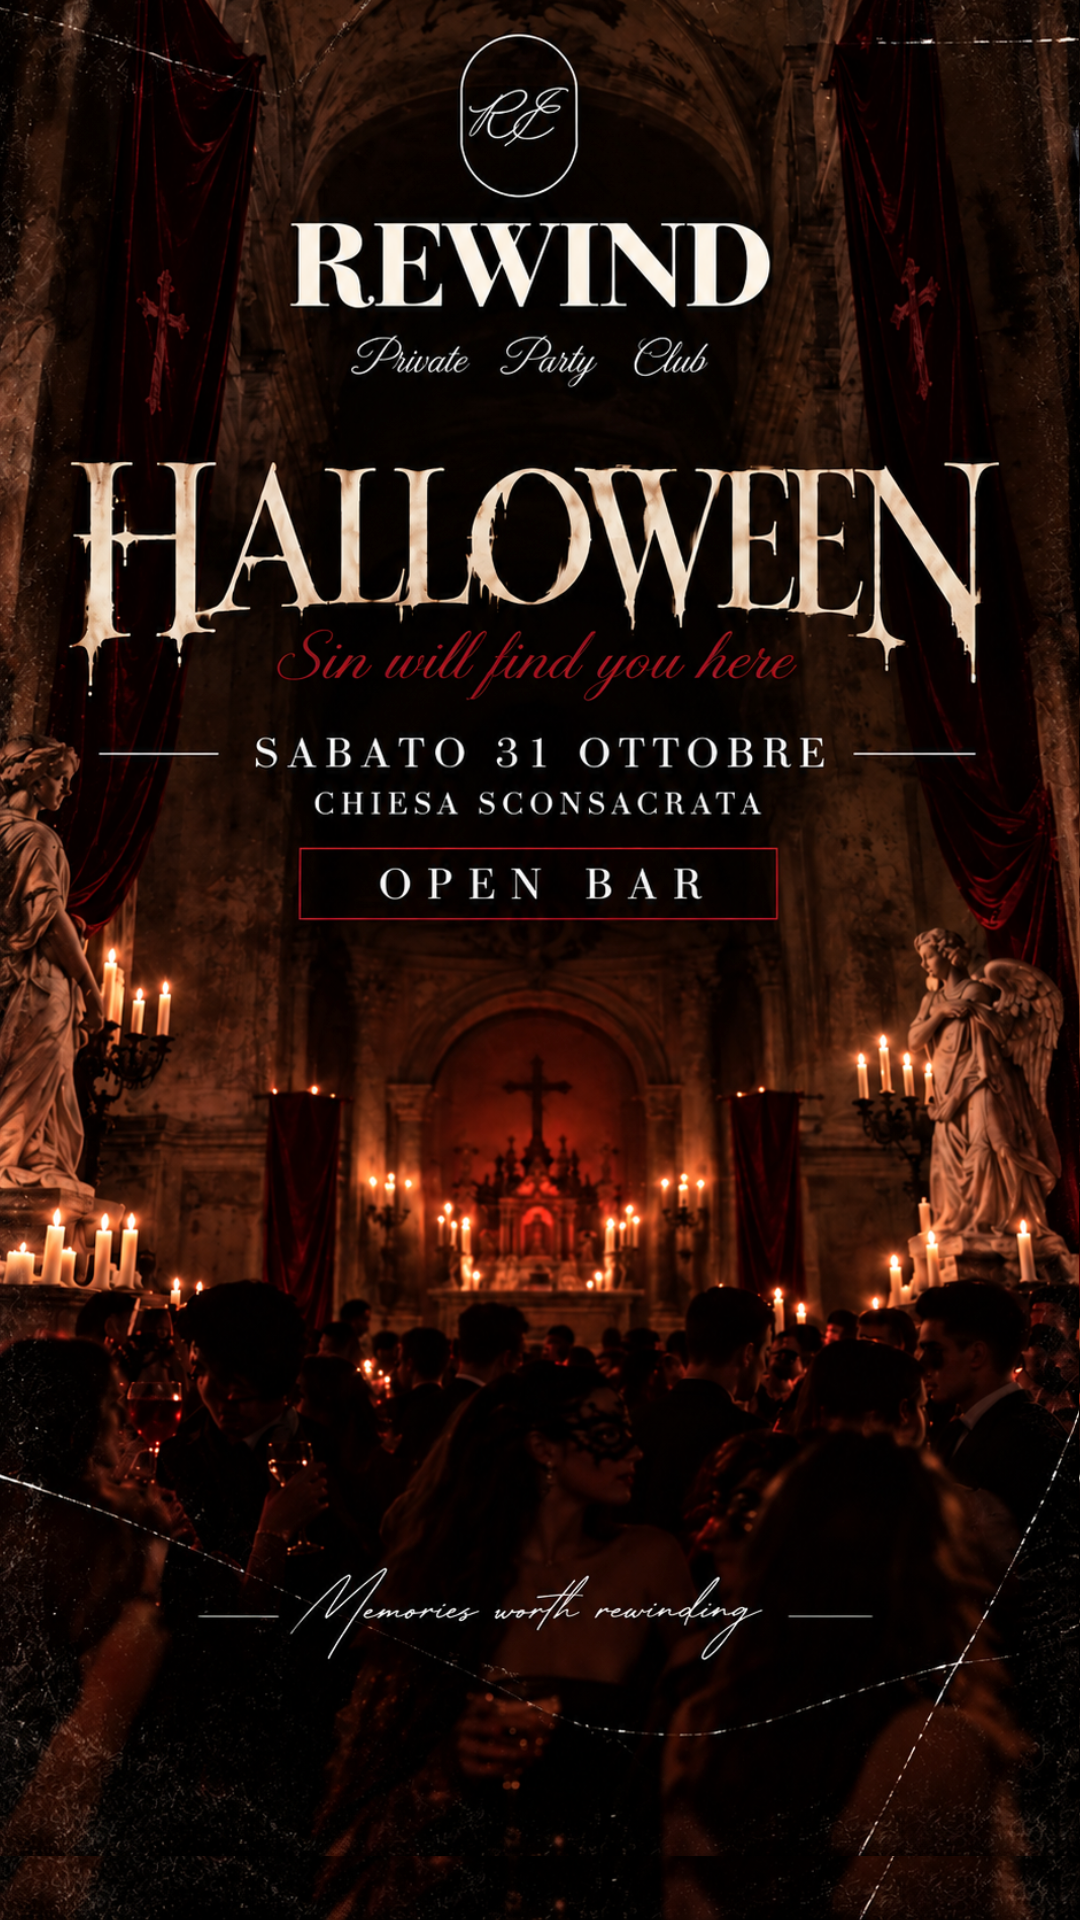
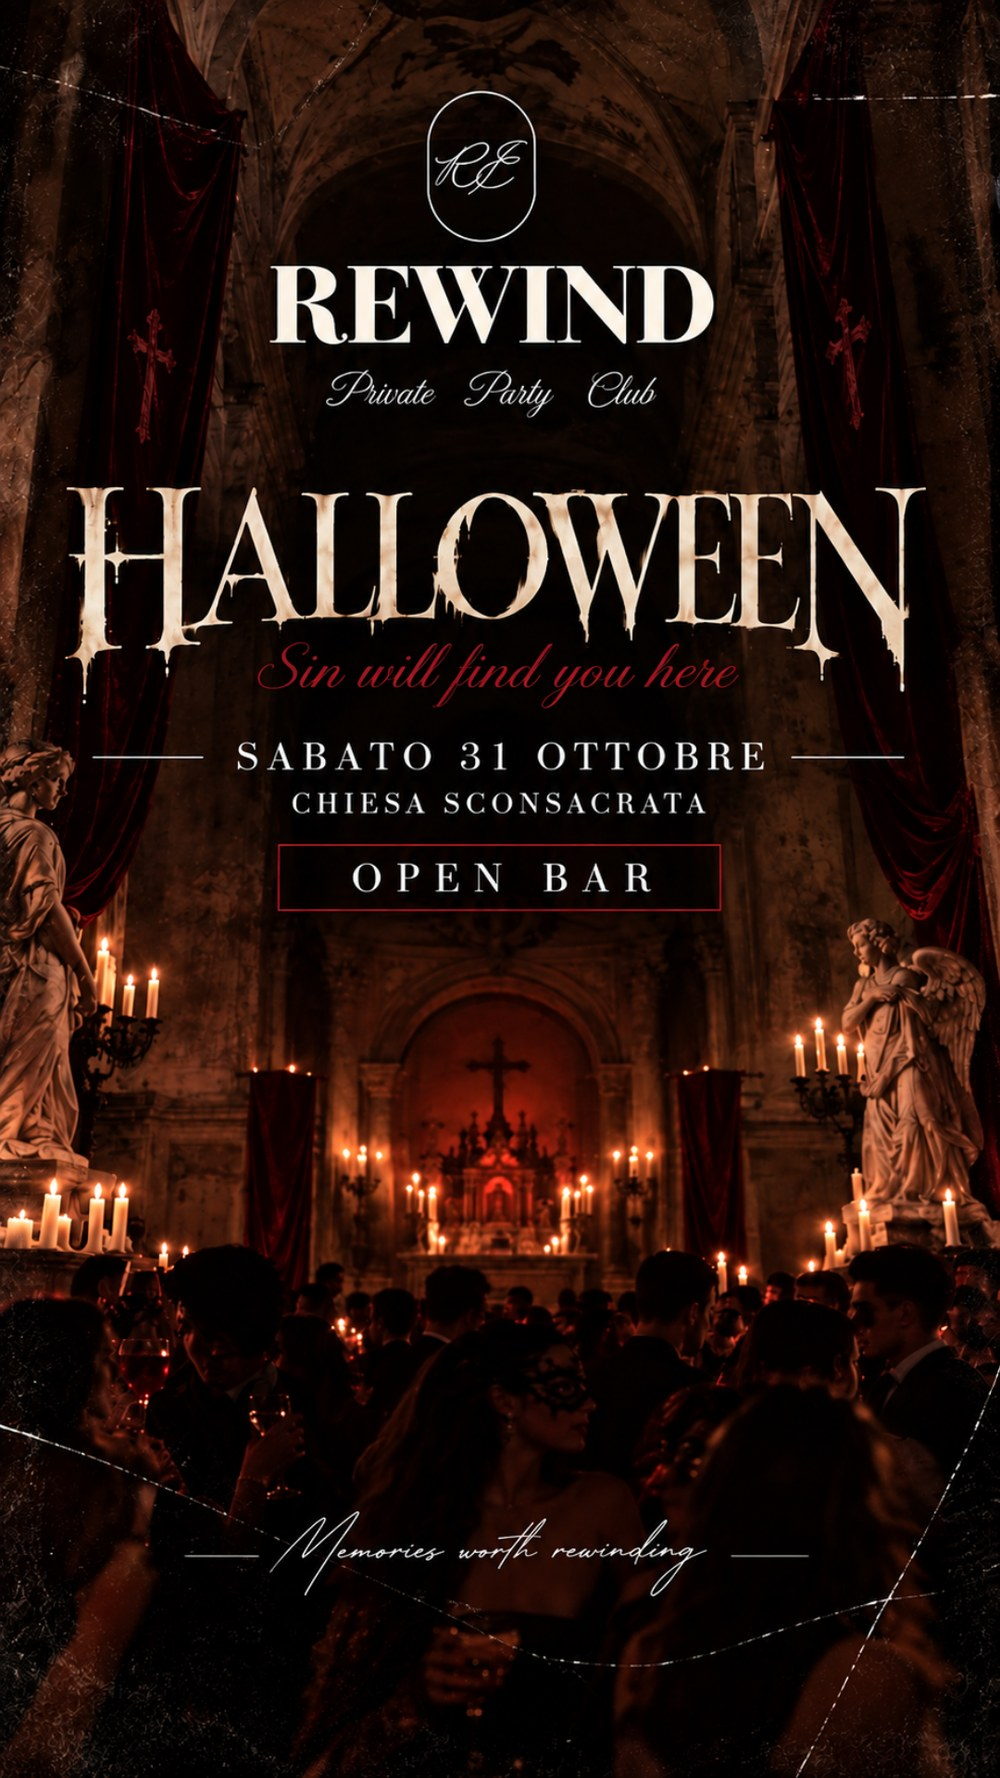
Add files via upload

diff --git a/menu-temakinho.html b/menu-temakinho.html
@@ -58,42 +58,23 @@
     <a href="temakinho.html" class="tm-back">← &nbsp;Torna a Temakinho</a>
 
     <div class="tm-menu-head">
-      <p class="tm-eyebrow">Rewind Temakinho &nbsp;·&nbsp; 16 Ottobre 2026</p>
+      <p class="tm-eyebrow">Rewind Temakinho &nbsp;·&nbsp; Venerdì 16 Ottobre 2026</p>
       <h1 class="tm-title">IL MENÙ</h1>
       <p class="tm-claim">Cena Spettacolo</p>
-      <p class="tm-sub">Due proposte per la serata. Scegli la tua al momento della prenotazione.</p>
+      <p class="tm-sub">Le proposte della serata. Scegli la tua al momento della prenotazione.</p>
     </div>
 
     <!-- ═══════════════════════════════════════════════════
-         I DUE MENÙ
-         Per inserirli: carica i file nella cartella principale
-         e scrivi il nome del file qui sotto, in MENU_FILES.
-         Accetta immagini (.jpg .png) oppure PDF.
+         IL MENÙ — locandina unica: menu-temakinho.jpg
+         Per aggiornarlo sostituisci quel file con lo stesso nome.
     ═══════════════════════════════════════════════════ -->
-    <div class="tm-menus">
-
-      <section class="tm-menu-card" id="menuCard1">
-        <div class="tm-menu-num">01</div>
-        <h2 class="tm-menu-ttl" id="menuTtl1">Menù 01</h2>
-        <div class="tm-menu-body" id="menuBody1">
-          <div class="tm-menu-ph">
-            <span>In arrivo</span>
-            <span>Il menù sarà pubblicato a breve</span>
-          </div>
-        </div>
-      </section>
-
-      <section class="tm-menu-card" id="menuCard2">
-        <div class="tm-menu-num">02</div>
-        <h2 class="tm-menu-ttl" id="menuTtl2">Menù 02</h2>
-        <div class="tm-menu-body" id="menuBody2">
-          <div class="tm-menu-ph">
-            <span>In arrivo</span>
-            <span>Il menù sarà pubblicato a breve</span>
-          </div>
-        </div>
-      </section>
-
+    <div class="tm-menu-single">
+      <figure class="tm-menu-poster">
+        <img src="menu-temakinho.jpg"
+             alt="Menù della Cena Spettacolo — Rewind Temakinho, venerdì 16 ottobre 2026"
+             width="1080" height="1350">
+      </figure>
+      <a class="tm-menu-open" href="menu-temakinho.jpg" target="_blank" rel="noopener">Apri a schermo intero →</a>
     </div>
 
     <div class="tm-menu-cta">
@@ -130,41 +111,11 @@
 
 <script>
 /* ═══════════════════════════════════════════════════
-   I DUE MENÙ — unica parte da modificare
-   Scrivi il nome del file (immagine o PDF) tra le virgolette.
-   Lasciando '' resta il segnaposto "In arrivo".
-   Esempio:  file:'menu-1.jpg'   oppure   file:'menu-1.pdf'
+   IL MENÙ
+   È un'unica locandina: il file è  menu-temakinho.jpg
+   Per aggiornarlo basta sostituire quel file mantenendo
+   lo stesso nome. Nessuna modifica al codice.
 ═══════════════════════════════════════════════════ */
-const MENU_FILES = [
-  { titolo:'Menù 01', file:'' },   // ← primo menù
-  { titolo:'Menù 02', file:'' }    // ← secondo menù
-];
-
-/* ─── da qui in giù non serve modificare nulla ─── */
-MENU_FILES.forEach(function(m, i){
-  const n    = i + 1;
-  const ttl  = document.getElementById('menuTtl'  + n);
-  const body = document.getElementById('menuBody' + n);
-  if(m.titolo) ttl.textContent = m.titolo;
-  if(!m.file) return;
-
-  const est = m.file.split('.').pop().toLowerCase();
-  if(est === 'pdf'){
-    body.innerHTML =
-      '<object class="tm-menu-pdf" data="' + m.file + '" type="application/pdf">' +
-        '<div class="tm-menu-ph"><span>Menù in PDF</span>' +
-        '<span>Il tuo browser non lo mostra qui</span></div>' +
-      '</object>' +
-      '<a class="tm-menu-open" href="' + m.file + '" target="_blank" rel="noopener">Apri il menù →</a>';
-  }else{
-    body.innerHTML =
-      '<img class="tm-menu-img" src="' + m.file + '" alt="' + (m.titolo || 'Menù') +
-      ' — Rewind Temakinho" loading="lazy" ' +
-      'onerror="this.parentElement.innerHTML=\'<div class=&quot;tm-menu-ph&quot;>' +
-      '<span>In arrivo</span><span>Il menù sarà pubblicato a breve</span></div>\'">' +
-      '<a class="tm-menu-open" href="' + m.file + '" target="_blank" rel="noopener">Ingrandisci →</a>';
-  }
-});
 
 /* ─── NAV ─── */
 window.addEventListener('scroll',()=>{

diff --git a/temakinho.html b/temakinho.html
@@ -7,7 +7,7 @@
 <meta name="theme-color" content="#071410">
 <meta name="viewport" content="width=device-width, initial-scale=1.0, maximum-scale=1.0">
 <title>REWIND TEMAKINHO — 16 Ottobre 2026 | Cena Spettacolo e DJ Set a Bologna</title>
-<meta name="description" content="REWIND TEMAKINHO — venerdì 16 ottobre 2026, Via Farini 13/A Bologna. Cena spettacolo 40 €, DJ Set 15 € con drink incluso. Dalle 20:00, till late.">
+<meta name="description" content="REWIND TEMAKINHO — venerdì 16 ottobre 2026, Via Farini 13/A Bologna. Cena spettacolo 40 €, DJ Set 15 € con drink incluso. Dalle 20:30, till late.">
 <link rel="canonical" href="https://www.rewindeventss.com/temakinho.html">
 <meta name="robots" content="index, follow">
 <meta property="og:type" content="article">
@@ -29,7 +29,7 @@
 {
   "@context":"https://schema.org","@type":"Event",
   "name":"REWIND TEMAKINHO",
-  "startDate":"2026-10-16T20:00",
+  "startDate":"2026-10-16T20:30",
   "eventStatus":"https://schema.org/EventScheduled",
   "eventAttendanceMode":"https://schema.org/OfflineEventAttendanceMode",
   "image":"https://www.rewindeventss.com/temakinho-2026.jpg",
@@ -127,7 +127,7 @@
           </div>
           <div class="tm-fact big">
             <p class="tm-fact-l">Orario</p>
-            <p class="tm-fact-v" data-cfg="temakinho.orario">20:00 — Till Late</p>
+            <p class="tm-fact-v" data-cfg="temakinho.orario">20:30 — Till Late</p>
           </div>
           <div class="tm-fact wide">
             <p class="tm-fact-l">Location</p>
@@ -169,7 +169,7 @@
 
         <!-- ── CENA SPETTACOLO → WhatsApp ── -->
         <div class="tm-opt">
-          <p class="tm-opt-kicker">Dalle 20:00</p>
+          <p class="tm-opt-kicker">Dalle 20:30</p>
           <div class="tm-opt-name">Cena<br>Spettacolo</div>
           <div class="tm-opt-price"><span data-cfg="temakinho.prezzo_cena">40</span><span class="cur">&#8364;</span></div>
           <p class="tm-opt-note">Cena con spettacolo, poi si continua con il DJ Set.</p>
@@ -178,7 +178,7 @@
 
         <!-- ── DJ SET → form ── -->
         <div class="tm-opt">
-          <p class="tm-opt-kicker">Dalle 22:00</p>
+          <p class="tm-opt-kicker">Dalle 22:30</p>
           <div class="tm-opt-name">DJ Set</div>
           <div class="tm-opt-price"><span data-cfg="temakinho.prezzo_dj">15</span><span class="cur">&#8364;</span></div>
           <p class="tm-opt-note" data-cfg="temakinho.nota_dj">Drink incluso.</p>
@@ -308,7 +308,7 @@ const TM_ID = 'temakinho-2026';
 const tmEv = (typeof rwEventById === 'function' ? rwEventById(TM_ID) : null) || {
   id: TM_ID, title:'REWIND TEMAKINHO', displayDate:'16 Ottobre 2026',
   location:'Temakinho', locationDetail:'Via Farini 13/A — 40124 Bologna',
-  time:'20:00 — Till Late'
+  time:'20:30 — Till Late'
 };
 
 /* ─── Pannello di configurazione: valori modificabili dal foglio "config" ───
@@ -409,7 +409,7 @@ function cMob(){mob.classList.remove('open');hamb.classList.remove('open');}
           eventName:     'TEMAKINHO',
           eventDate:     tmEv.displayDate,
           eventLocation: [tmEv.location, tmEv.locationDetail].filter(Boolean).join(' — '),
-          eventTime:     'Dalle 22:00 — Till Late',
+          eventTime:     'Dalle 22:30 — Till Late',
           eventPrice:    '15 €',
           eventFormat:   'DJ Set',
           tipologia:     'DJ SET',

diff --git a/halloween.html b/halloween.html
@@ -7,18 +7,18 @@
 <meta name="theme-color" content="#070407">
 <meta name="viewport" content="width=device-width, initial-scale=1.0, maximum-scale=1.0">
 <title>REWIND HALLOWEEN — 31 Ottobre 2026 | Chiesa sconsacrata, Zola Predosa</title>
-<meta name="description" content="REWIND HALLOWEEN — venerdì 31 ottobre 2026 in una chiesa sconsacrata a Zola Predosa. Open Bar, 30 €, dalle 22:00 alle 04:00. Prenota il tuo ingresso.">
+<meta name="description" content="REWIND HALLOWEEN — venerdì 31 ottobre 2026 in una chiesa sconsacrata a Zola Predosa. Open Bar, 25 €, dalle 22:00 alle 04:00. Prenota il tuo ingresso.">
 <link rel="canonical" href="https://www.rewindeventss.com/halloween.html">
 <meta name="robots" content="index, follow">
 <meta property="og:type" content="article">
 <meta property="og:url" content="https://www.rewindeventss.com/halloween.html">
 <meta property="og:title" content="REWIND HALLOWEEN — 31 Ottobre 2026">
-<meta property="og:description" content="Chiesa sconsacrata, Zola Predosa · 22:00–04:00 · Open Bar · 30 €">
+<meta property="og:description" content="Chiesa sconsacrata, Zola Predosa · 22:00–04:00 · Open Bar · 25 €">
 <meta property="og:image" content="https://www.rewindeventss.com/halloween-2026.jpg">
 <meta property="og:site_name" content="Rewind Private Club">
 <meta name="twitter:card" content="summary_large_image">
 <meta name="twitter:title" content="REWIND HALLOWEEN — 31 Ottobre 2026">
-<meta name="twitter:description" content="Chiesa sconsacrata, Zola Predosa · 22:00–04:00 · Open Bar · 30 €">
+<meta name="twitter:description" content="Chiesa sconsacrata, Zola Predosa · 22:00–04:00 · Open Bar · 25 €">
 <meta name="twitter:image" content="https://www.rewindeventss.com/halloween-2026.jpg">
 <link rel="preconnect" href="https://fonts.googleapis.com">
 <link rel="preconnect" href="https://fonts.gstatic.com" crossorigin>
@@ -123,7 +123,7 @@
                  con la chiave  halloween.badge_prezzo
                  (se la lasci vuota, l'etichetta sparisce da sola) -->
             <p class="hw-badge" data-cfg="halloween.badge_prezzo" data-cfg-optional>Early Bird</p>
-            <p class="hw-fact-v"><span data-cfg="halloween.prezzo">25</span><span class="cur">&#8364;</span></p>
+            <p class="hw-fact-v"><span data-cfg="halloween.prezzo">30</span><span class="cur">&#8364;</span></p>
           </div>
           <div class="hw-fact">
             <p class="hw-fact-l">Location</p>
@@ -384,7 +384,7 @@ function cMob(){mob.classList.remove('open');hamb.classList.remove('open');}
           eventLocation: HW_CFG['halloween.location'] || 'Chiesa sconsacrata — Zola Predosa',
           eventTime:     HW_CFG['halloween.orario'] || hwEv.time || '22:00 – 04:00',
           eventPrice:    HW_CFG['halloween.prezzo'] || hwEv.price || '25 €',
-          eventFormat:   HW_CFG['halloween.format'] || hwEv.ingresso || 'Free Bar',
+          eventFormat:   HW_CFG['halloween.format'] || hwEv.ingresso || 'Open Bar',
           data: new Date().toLocaleString('it-IT')
         }),
         signal: ctrl.signal

diff --git a/events-data.js b/events-data.js
@@ -27,7 +27,7 @@ const REWIND_EVENTS = [
     image:         'temakinho-2026.jpg',
     customPage:    'temakinho.html',
     description:   '',
-    time:          '20:00 — Till Late',
+    time:          '20:30 — Till Late',
     dressCode:     'Curato ed elegante',
     lineup:        '',
     price:         'Cena 40 \u20AC · DJ Set 15 \u20AC',
@@ -37,6 +37,14 @@ const REWIND_EVENTS = [
     galleryUrl:    ''
   },
 
+  /* ═══════════════════════════════════════════════════════════
+     HALLOWEEN — ARCHIVIATO MOMENTANEAMENTE
+     Per rimetterlo online: cancella questa riga di apertura e la
+     riga di chiusura del commento in fondo al blocco. Nient'altro.
+     I file halloween.html, halloween.css e la locandina restano
+     al loro posto e sono già aggiornati (Open Bar, 30 €).
+  ═══════════════════════════════════════════════════════════ */
+  /*
   {
     // --- identificativo univoco: usato nell'URL e nel Google Sheet ---
     id:            'halloween-2026',
@@ -49,7 +57,7 @@ const REWIND_EVENTS = [
     locationDetail:'Zola Predosa',
 
     // --- etichette mostrate sulla card ---
-    tags:          ['Halloween Party', 'Free Bar'],
+    tags:          ['Halloween Party', 'Open Bar'],
 
     // --- locandina ---
     // Metti il file nella cartella "locandine/" e scrivi qui il percorso.
@@ -68,8 +76,8 @@ const REWIND_EVENTS = [
     time:          '22:00 – 04:00',
     dressCode:     '',   // es. 'Costume obbligatorio'
     lineup:        '',   // es. 'DJ X · DJ Y'
-    price:         '25 \u20AC',
-    ingresso:      'Free Bar',
+    price:         '30 \u20AC',
+    ingresso:      'Open Bar',
 
     // --- programma della serata (facoltativo) ---
     // esempio: [{time:'22:00', label:'Apertura porte'}, {time:'23:00', label:'DJ Set'}]
@@ -80,7 +88,9 @@ const REWIND_EVENTS = [
 
     // --- archivio foto (si usa solo quando l'evento è passato) ---
     galleryUrl:    ''
+  }
   },
+  */
 
   // ==============================================================
   // EVENTI PASSATI (archivio)

diff --git a/temakinho.css b/temakinho.css
@@ -413,3 +413,23 @@ body.tm-page #ck-banner .ck-accept{background:var(--tm-cream);color:#0B211A;}
   .tm-menu-cta{flex-direction:column;}
   .tm-menu-cta .tm-btn{width:100%;}
 }
+
+/* ─── Pagina menù: locandina unica ─── */
+.tm-menu-single{
+  position:relative;z-index:1;
+  display:flex;flex-direction:column;align-items:center;
+  max-width:620px;margin:0 auto;
+}
+.tm-menu-poster{
+  margin:0;width:100%;padding:9px;
+  background:linear-gradient(165deg, rgba(216,185,120,.30), rgba(216,185,120,.06) 45%, rgba(28,68,54,.22));
+  border:1px solid rgba(216,185,120,.38);
+  box-shadow:0 40px 100px rgba(0,0,0,.72), 0 0 80px rgba(28,68,54,.28);
+}
+/* mai ritagliata */
+.tm-menu-poster img{
+  display:block;width:100%;height:auto;object-fit:contain;
+  border:1px solid rgba(0,0,0,.4);
+}
+.tm-menu-single .tm-menu-open{margin-top:20px;}
+@media(max-width:900px){ .tm-menu-single{max-width:min(460px,100%);} }
